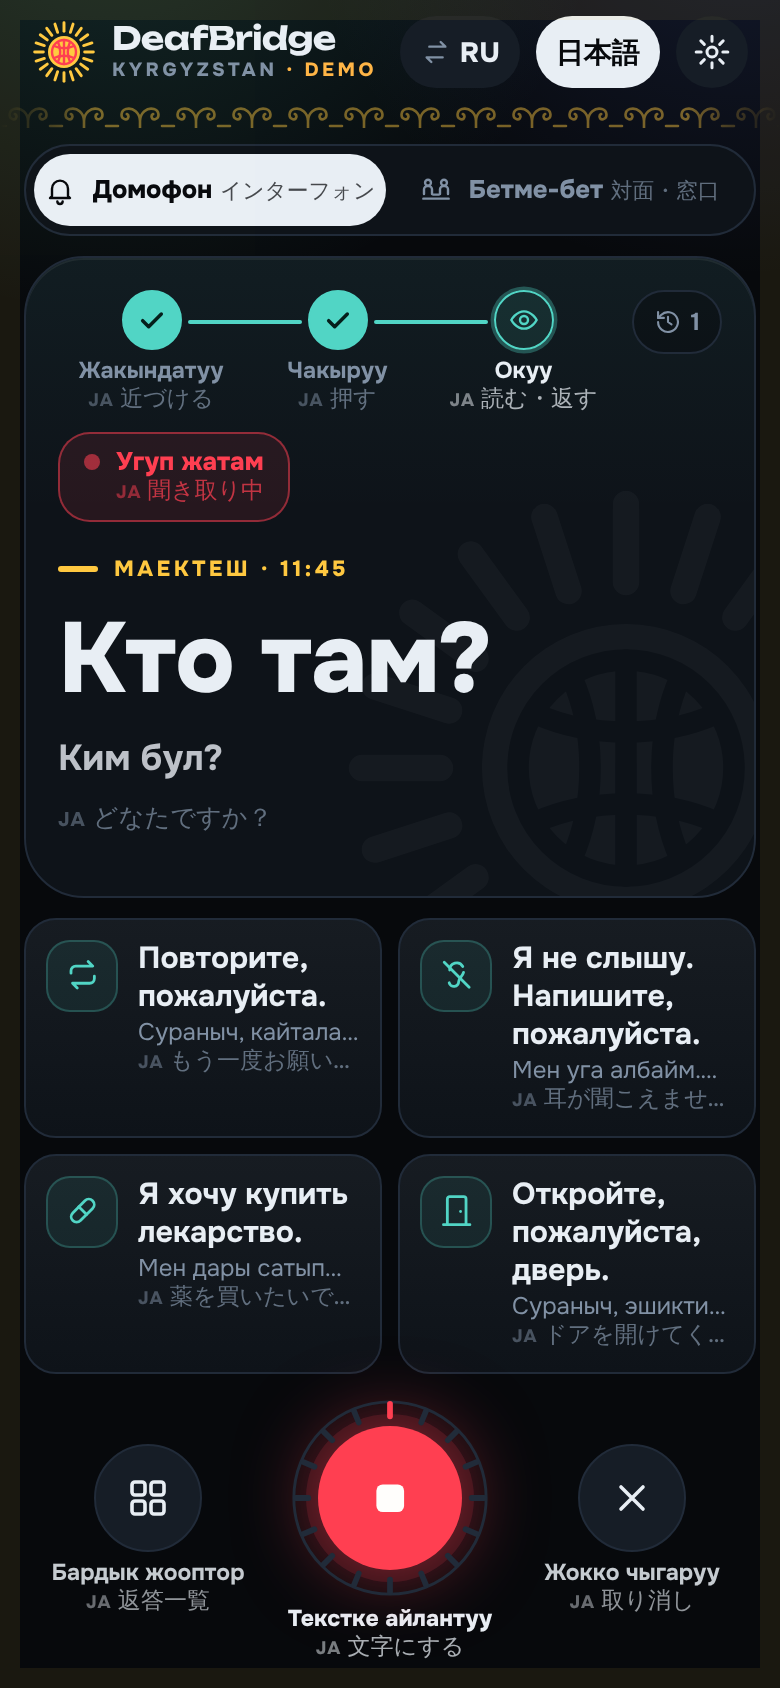
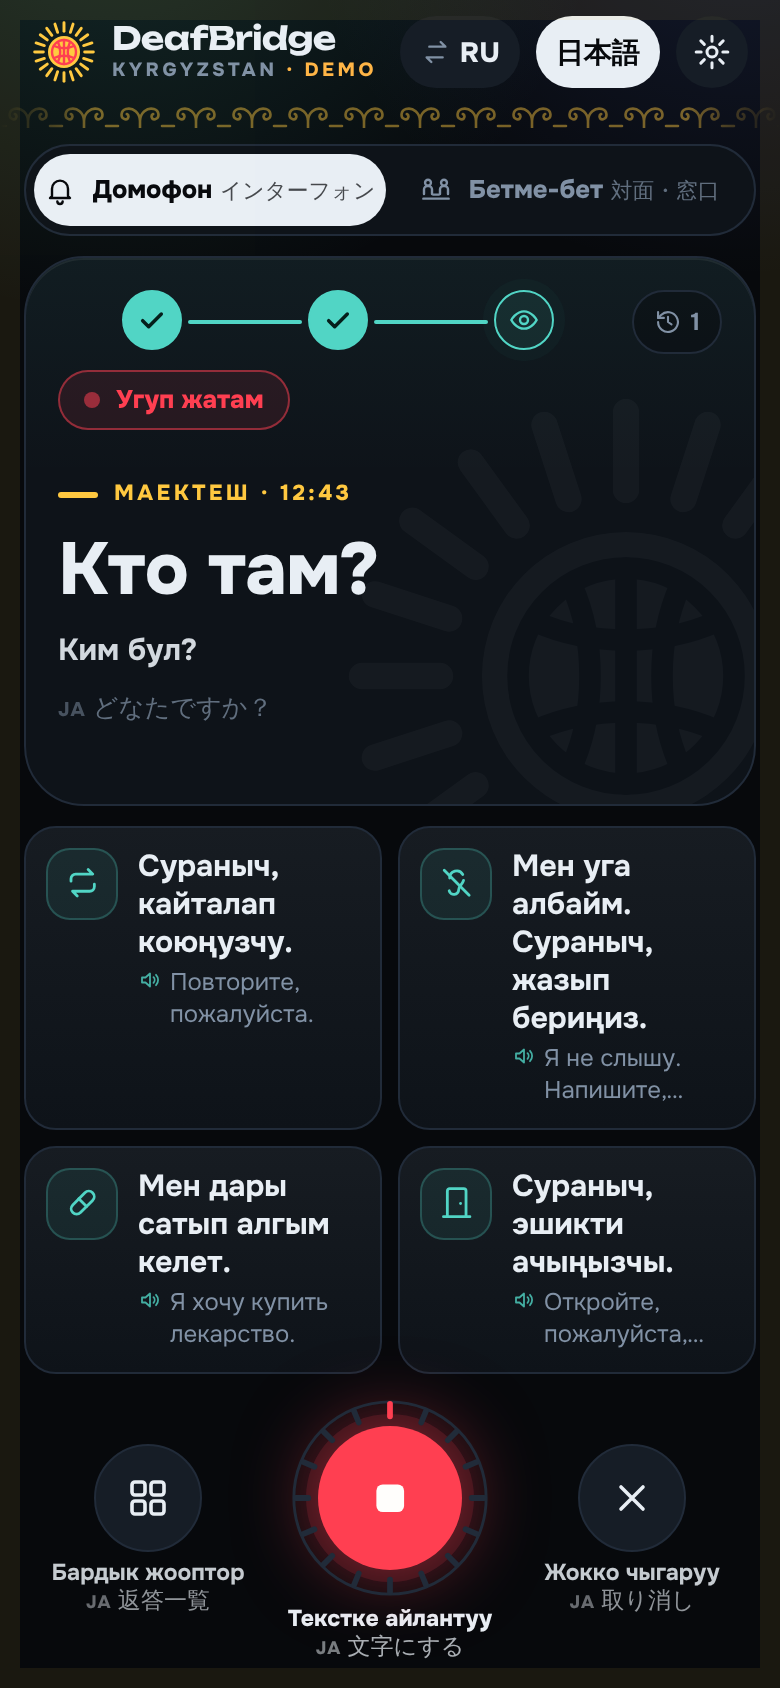
Usability review: meaning-first replies, staff confirmation, consent
Deaf user side:
- Quick replies and the reply list show the meaning in the user's own
  language as the main text, with the spoken (other-language) sentence
  small underneath; tiles carry an aria-label with both
- Translation of the other person's words is larger and brighter
- 24-hour time
- Japanese assist is off by default; the header chip appears only while
  it is on (turn it on in settings)
- First recording asks for consent: audio is sent to Google for
  transcription and never stored

Counter staff side:
- Upside-down panel is stacked vertically with larger text
- Shows "You said: «…»" so staff can check what was understood, then
  "About to reply…" until the user answers

Tests: 48 unit, 42 E2E checks; no scrolling at 4 sizes in both modes

Claude-Session: https://claude.ai/code/session_01MF86TwLKCSnZg1bD2yCpDd

diff --git a/deafbridge-kg/src/components/ConversationScreen.tsx b/deafbridge-kg/src/components/ConversationScreen.tsx
@@ -69,7 +69,7 @@ export default function ConversationScreen({
     if (p) speakPhrase(onSpeak, p, settings);
   };
 
-  const time = latest ? new Date(latest.time).toLocaleTimeString([], { hour: "2-digit", minute: "2-digit" }) : "";
+  const time = latest ? new Date(latest.time).toLocaleTimeString([], { hour: "2-digit", minute: "2-digit", hour12: false }) : "";
   // 今どの段階か：1 スピーカーに近づける → 2 インターフォンを押す → 3 読んで返答
   const step: 1 | 2 | 3 = latest || speaking ? 3 : listening ? 2 : 1;
   // 状態表示は「何か起きている時」だけ（案内中は案内と赤い録音ボタンで分かる）
@@ -121,7 +121,9 @@ export default function ConversationScreen({
         {counter && (
           <StaffPanel
             lang={lang}
-            text={lastMine?.text ?? phraseText(findPhrase("counter_intro")!, lang)}
+            reply={lastMine?.text ?? null}
+            heard={!lastMine && latest?.status === "done" ? latest.text : null}
+            intro={phraseText(findPhrase("counter_intro")!, lang)}
             onType={onOpenStaffType}
           />
         )}
@@ -204,7 +206,7 @@ export default function ConversationScreen({
                   {latest.text}
                 </p>
                 {latest.translations?.[ui] && (
-                  <p className="stage-trans text-reply font-semibold text-fg/80" lang={ui}>
+                  <p className="stage-trans font-bold leading-snug text-fg/90" lang={ui}>
                     {latest.translations[ui]}
                   </p>
                 )}
@@ -276,24 +278,32 @@ export default function ConversationScreen({
           const p = findPhrase(id);
           const mine = p ? undefined : settings.myPhrases.find((m) => m.id === id);
           if (!p && !mine) return null;
-          const text = p ? phraseText(p, lang) : mine!.text;
+          const spoken = p ? phraseText(p, lang) : mine!.text;
+          const spokenLang = p ? lang : mine!.lang;
+          // 利用者が読んで分かる言葉（画面の言語）を大きく、実際に読み上げる相手の言語を小さく
+          const meaning = p && ui !== lang ? phraseText(p, ui) : null;
           return (
             <button
               key={id}
               type="button"
               onClick={() => (p ? speakPhrase(onSpeak, p, settings) : onSpeak({ text: mine!.text, lang: mine!.lang }))}
+              aria-label={meaning ? `${meaning} — ${spoken}` : spoken}
               className="tile flex min-w-0 items-start gap-2.5 rounded-2xl border border-line p-2.5 text-left transition active:scale-[0.98] active:border-accent/50"
             >
               <span className="tile-icon flex shrink-0 items-center justify-center rounded-xl border border-accent/25 bg-accent/[0.08] text-accent">
                 <Icon name={(p?.icon ?? "star") as IconName} className="h-[55%] w-[55%]" />
               </span>
-              <span className="flex min-w-0 flex-col">
-                <span className="tile-text font-bold leading-tight [overflow-wrap:break-word]" lang={p ? lang : mine!.lang}>
-                  {text}
+              <span className="flex min-w-0 flex-col gap-0.5">
+                <span
+                  className="tile-text font-bold leading-tight [overflow-wrap:break-word]"
+                  lang={meaning ? ui : spokenLang}
+                >
+                  {meaning ?? spoken}
                 </span>
-                {p && ui !== lang && (
-                  <span className="tile-sub line-clamp-1 text-xs text-muted" lang={ui}>
-                    {phraseText(p, ui)}
+                {meaning && (
+                  <span className="tile-spoken flex min-w-0 items-start gap-1 text-xs leading-snug text-muted" lang={spokenLang}>
+                    <Icon name="speaker" className="mt-px h-3 w-3 shrink-0 text-accent/80" />
+                    <span className="line-clamp-2">{spoken}</span>
                   </span>
                 )}
                 {p && (
@@ -500,23 +510,46 @@ function Guide({ step, mode, onIntro }: { step: 1 | 2; mode: Mode; onIntro: () =
  * 対面モード：画面の上部を 180° 回転し、机をはさんだ相手（窓口の人）が読めるようにする。
  * 相手の言語で、利用者の直前の返答（まだなければ「耳が聞こえません…」）と「ここに書く」ボタンを出す。
  */
-function StaffPanel({ lang, text, onType }: { lang: ConvLang; text: string; onType: () => void }) {
+function StaffPanel({
+  lang,
+  reply,
+  heard,
+  intro,
+  onType,
+}: {
+  lang: ConvLang;
+  /** 利用者の直前の返答（あれば一番大きく見せる） */
+  reply: string | null;
+  /** 相手（窓口の人）の言葉がどう聞き取られたか。相手が自分で確かめられるように */
+  heard: string | null;
+  intro: string;
+  onType: () => void;
+}) {
   const staff = DICTS[lang];
   const label = staff.staffPlaceholder.replace("…", "");
   return (
-    <div
-      className="staff-panel relative mb-3 flex rotate-180 items-center gap-3 rounded-2xl border border-them/35 bg-bg/70 p-2.5 pl-3"
-      lang={lang}
-    >
-      <p className="staff-text min-w-0 flex-1 font-bold leading-snug">{text}</p>
+    <div className="staff-panel relative mb-3 flex rotate-180 flex-col gap-2 rounded-2xl border border-them/35 bg-bg/70 p-3" lang={lang}>
+      {heard ? (
+        <>
+          <p className="text-xs font-bold text-them">
+            ✓ {staff.staffYouSaid}: <span className="font-extrabold text-fg">«{heard}»</span>
+          </p>
+          <p className="staff-text flex items-center gap-2 font-bold leading-snug text-fg/80">
+            <span className="pulse-dot inline-block h-2 w-2 shrink-0 rounded-full bg-them" />
+            {staff.staffWaitReply}
+          </p>
+        </>
+      ) : (
+        <p className="staff-text font-bold leading-snug">{reply ?? intro}</p>
+      )}
       <button
         type="button"
         onClick={onType}
         aria-label={label}
-        className="flex shrink-0 items-center gap-1.5 rounded-full bg-them px-3 py-2 text-xs font-extrabold leading-tight text-them-ink"
+        className="flex w-fit items-center gap-1.5 rounded-full bg-them px-3 py-1.5 text-xs font-extrabold leading-tight text-them-ink"
       >
         <Icon name="pen" className="h-4 w-4 shrink-0" />
-        <span className="staff-btn-label max-w-[6.5rem]">{label}</span>
+        <span className="staff-btn-label">{label}</span>
       </button>
     </div>
   );

diff --git a/deafbridge-kg/src/components/DeafBridgeApp.tsx b/deafbridge-kg/src/components/DeafBridgeApp.tsx
@@ -17,8 +17,9 @@ import StaffTypeSheet from "./StaffTypeSheet";
 import ShowTextOverlay from "./ShowTextOverlay";
 import type { LogEntry, ShowText, SpeakFn } from "./types";
 import { Icon, OrnamentBand, TundukMark } from "./icons";
+import { Sheet } from "./ui";
 
-type SheetName = "replies" | "type" | "settings" | "history" | "staff" | null;
+type SheetName = "replies" | "type" | "settings" | "history" | "staff" | "consent" | null;
 
 export default function DeafBridgeApp() {
   const [settings, setSettings] = useState<Settings>(DEFAULT_SETTINGS);
@@ -190,6 +191,11 @@ export default function DeafBridgeApp() {
 
   const startListening = useCallback(() => {
     setToastKey(null);
+    // 初めての時は、音声の扱い（Google に送ること）を説明して同意をもらう
+    if (!settingsRef.current.consent) {
+      setSheet("consent");
+      return;
+    }
     touch();
     listener.start();
   }, [listener, touch]);
@@ -304,7 +310,8 @@ export default function DeafBridgeApp() {
             <Icon name="swap" className="h-4 w-4 text-muted" />
             {settings.convLang === "ru" ? "RU" : "KY"}
           </button>
-          {/* 日本語補助のクイック切替（確認用） */}
+          {/* 日本語補助のクイック切替（確認用）。オンの時だけ表示（オンにするのは設定から） */}
+          {settings.jaAssist && (
           <button
             type="button"
             aria-pressed={settings.jaAssist}
@@ -316,6 +323,7 @@ export default function DeafBridgeApp() {
           >
             日本語
           </button>
+          )}
           <button
             type="button"
             onClick={() => setSheet("settings")}
@@ -379,6 +387,42 @@ export default function DeafBridgeApp() {
         )}
         {sheet === "settings" && (
           <SettingsSheet settings={settings} status={status} onChange={updateSettings} onSpeak={speak} onClose={closeSheet} />
+        )}
+        {sheet === "consent" && (
+          <Sheet title={<Tx k="consentTitle" />} onClose={closeSheet} closeLabel={d.close}>
+            <div className="flex flex-col gap-4 pb-2">
+              <div className="flex items-start gap-3">
+                <span className="flex h-11 w-11 shrink-0 items-center justify-center rounded-xl border border-accent/30 bg-accent/10 text-accent">
+                  <Icon name="mic" className="h-6 w-6" />
+                </span>
+                <p className="text-body leading-relaxed">
+                  <Tx k="consentBody" />
+                </p>
+              </div>
+              <button
+                type="button"
+                onClick={() => {
+                  // ボタンを押した操作の中で録音を始める（iPhone ではタップ内でないとマイクが使えない）
+                  settingsRef.current = { ...settingsRef.current, consent: true };
+                  updateSettings({ consent: true });
+                  setSheet(null);
+                  touch();
+                  listener.start();
+                }}
+                className="flex min-h-14 items-center justify-center gap-2 rounded-2xl bg-accent text-lg font-extrabold text-accent-fg"
+              >
+                <Icon name="check-mark" className="h-5 w-5" strokeWidth={2.6} />
+                <Tx k="consentAgree" />
+              </button>
+              <button
+                type="button"
+                onClick={closeSheet}
+                className="min-h-12 rounded-2xl bg-surface-2 font-bold text-muted"
+              >
+                <Tx k="consentDecline" />
+              </button>
+            </div>
+          </Sheet>
         )}
         {sheet === "staff" && (
           <StaffTypeSheet lang={settings.convLang} onSubmit={handleStaffText} onClose={closeSheet} />

diff --git a/deafbridge-kg/src/lib/i18n.ts b/deafbridge-kg/src/lib/i18n.ts
@@ -119,6 +119,12 @@ const ja = {
   idleStopHint: "電池・費用・プライバシーのため。止まったら丸いボタンでまた始められます",
   idleStopped: "しばらくだれも話さなかったので、聞き取りを止めました",
   minutes: "分",
+  consentTitle: "はじめに：音声の扱いについて",
+  consentBody: "相手の声を文字にするため、音声を Google の音声認識サービスに送ります。録音は端末にもサーバーにも保存しません。相手には、スマホが声を文字にしていることを伝えてください。",
+  consentAgree: "同意して始める",
+  consentDecline: "やめる",
+  staffYouSaid: "あなたの言葉",
+  staffWaitReply: "いま返事をしています…",
   stepHold: "スピーカーに近づける",
   stepRing: "インターフォンを押す",
   stepRead: "文字を読んで返答",
@@ -241,6 +247,12 @@ const ru: Dict = {
   idleStopHint: "Для батареи, расходов и приватности. Начать снова — круглая кнопка",
   idleStopped: "Никто долго не говорил — прослушивание остановлено",
   minutes: "мин",
+  consentTitle: "Перед началом: о записи звука",
+  consentBody: "Чтобы превратить речь собеседника в текст, звук отправляется в сервис распознавания Google. Записи не сохраняются ни на телефоне, ни на сервере. Сообщите собеседнику, что телефон превращает речь в текст.",
+  consentAgree: "Согласен, начать",
+  consentDecline: "Отмена",
+  staffYouSaid: "Вы сказали",
+  staffWaitReply: "Сейчас ответит…",
   stepHold: "Поднесите к динамику",
   stepRing: "Нажмите на звонок",
   stepRead: "Читайте и отвечайте",
@@ -361,6 +373,12 @@ const ky: Dict = {
   idleStopHint: "Батарея, чыгым жана купуялык үчүн. Кайра баштоо — тегерек баскыч",
   idleStopped: "Көпкө эч ким сүйлөгөн жок — угуу токтотулду",
   minutes: "мүн",
+  consentTitle: "Баштоодон мурун: үн жөнүндө",
+  consentBody: "Маектештин сөзүн текстке айлантуу үчүн үн Google'дун таануу кызматына жөнөтүлөт. Жазуулар телефондо да, серверде да сакталбайт. Телефон сөздү текстке айлантып жатканын маектешиңизге билдириңиз.",
+  consentAgree: "Макулмун, баштоо",
+  consentDecline: "Жок",
+  staffYouSaid: "Сиз айттыңыз",
+  staffWaitReply: "Азыр жооп берет…",
   stepHold: "Динамикке жакындатыңыз",
   stepRing: "Коңгуроону басыңыз",
   stepRead: "Окуп, жооп бериңиз",

diff --git a/deafbridge-kg/src/lib/settings.ts b/deafbridge-kg/src/lib/settings.ts
@@ -30,6 +30,8 @@ export type Settings = {
   idleStopSec: 0 | 60 | 180;
   accessCode: string;
   myPhrases: MyPhrase[];
+  /** 音声の扱い（Google に送ること）に同意済みか */
+  consent: boolean;
   /** メイン画面に置く返答（定型文 id またはマイ返答 id、最大4つ） */
   quickIds: string[];
 };
@@ -40,7 +42,7 @@ export const DEFAULT_SETTINGS: Settings = {
   convLang: "ru",
   fontSize: "large",
   translate: true,
-  jaAssist: true,
+  jaAssist: false,
   visualAlert: true,
   autoStop: true,
   continuous: true,
@@ -49,6 +51,7 @@ export const DEFAULT_SETTINGS: Settings = {
   idleStopSec: 60,
   accessCode: "",
   myPhrases: [],
+  consent: false,
   quickIds: ["repeat", "deaf", "buy_medicine", "open_door"],
 };
 
@@ -71,7 +74,7 @@ export function sanitizeSettings(raw: unknown): Settings {
   if (CONV_LANGS.includes(r.convLang as ConvLang)) s.convLang = r.convLang as ConvLang;
   if (r.mode === "intercom" || r.mode === "counter") s.mode = r.mode;
   if (r.fontSize === "large" || r.fontSize === "xlarge") s.fontSize = r.fontSize;
-  for (const k of ["translate", "jaAssist", "visualAlert", "autoStop", "continuous"] as const) {
+  for (const k of ["translate", "jaAssist", "visualAlert", "autoStop", "continuous", "consent"] as const) {
     if (typeof r[k] === "boolean" && !(k === "jaAssist" && r.uiLang === "ja")) s[k] = r[k] as boolean;
   }
   if (r.sensitivity === "low" || r.sensitivity === "mid" || r.sensitivity === "high")

diff --git a/deafbridge-kg/src/components/ReplySheet.tsx b/deafbridge-kg/src/components/ReplySheet.tsx
@@ -221,13 +221,15 @@ function PhraseRow({
         <span className="flex h-10 w-10 shrink-0 items-center justify-center rounded-xl border border-accent/20 bg-accent/[0.08] text-accent">
           <Icon name={icon} className="h-5 w-5" />
         </span>
-        <span className="flex min-w-0 flex-col [overflow-wrap:break-word]">
-          <span className="text-reply font-bold" lang={textLang}>
-            {text}
+        <span className="flex min-w-0 flex-col gap-0.5 [overflow-wrap:break-word]">
+          {/* 利用者が読んで分かる言葉を大きく、読み上げる相手の言語を小さく */}
+          <span className="text-reply font-bold" lang={meaning ? uiLang : textLang}>
+            {meaning ?? text}
           </span>
           {meaning && (
-            <span className="text-sm text-muted" lang={uiLang}>
-              {meaning}
+            <span className="flex items-start gap-1 text-sm text-muted" lang={textLang}>
+              <Icon name="speaker" className="mt-0.5 h-3.5 w-3.5 shrink-0 text-accent/80" />
+              <span>{text}</span>
             </span>
           )}
           {ja && (

diff --git a/deafbridge-kg/tests/phrases.test.ts b/deafbridge-kg/tests/phrases.test.ts
@@ -38,9 +38,11 @@ describe("settings", () => {
     expect(sanitizeSettings(null)).toEqual(DEFAULT_SETTINGS);
     expect(sanitizeSettings({ uiLang: "xx", maxSeconds: 999, fontSize: 3 })).toEqual(DEFAULT_SETTINGS);
   });
-  it("defaults to Kyrgyz UI with Japanese assist on", () => {
+  it("defaults to Kyrgyz UI, Japanese assist off, consent not yet given", () => {
     expect(DEFAULT_SETTINGS.uiLang).toBe("ky");
-    expect(DEFAULT_SETTINGS.jaAssist).toBe(true);
+    expect(DEFAULT_SETTINGS.jaAssist).toBe(false);
+    expect(DEFAULT_SETTINGS.consent).toBe(false);
+    expect(sanitizeSettings({ consent: true }).consent).toBe(true);
   });
   it("migrates old Japanese UI setting to Kyrgyz + Japanese assist", () => {
     const s = sanitizeSettings({ uiLang: "ja", jaAssist: false });

diff --git a/deafbridge-kg/src/app/globals.css b/deafbridge-kg/src/app/globals.css
@@ -203,7 +203,10 @@ body {
 
 /* 対面モード：相手側から読む部分 */
 .staff-text {
-  font-size: calc(1.15rem * var(--fs-scale) * var(--say-k, 1));
+  font-size: calc(1.35rem * var(--fs-scale) * var(--say-k, 1));
+}
+.stage-trans {
+  font-size: calc(1.4rem * var(--fs-scale) * var(--say-k, 1));
 }
 .fit-2 .staff-btn-label,
 .fit-2 [role="status"] .ja-gloss {
@@ -237,7 +240,8 @@ body {
     display: none;
   }
 }
-.fit-3 .stepper {
+.fit-3 .stepper,
+.fit-3 .tile-spoken {
   display: none;
 }
 .fit-4 {

diff --git a/deafbridge-kg/src/components/HistorySheet.tsx b/deafbridge-kg/src/components/HistorySheet.tsx
@@ -40,7 +40,7 @@ export default function HistorySheet({
       <ol className="flex flex-col gap-2">
         {log.map((e) => {
           const mine = e.who === "me";
-          const time = new Date(e.time).toLocaleTimeString([], { hour: "2-digit", minute: "2-digit" });
+          const time = new Date(e.time).toLocaleTimeString([], { hour: "2-digit", minute: "2-digit", hour12: false });
           return (
             <li key={e.id} className={mine ? "ml-10" : "mr-10"}>
               <button
